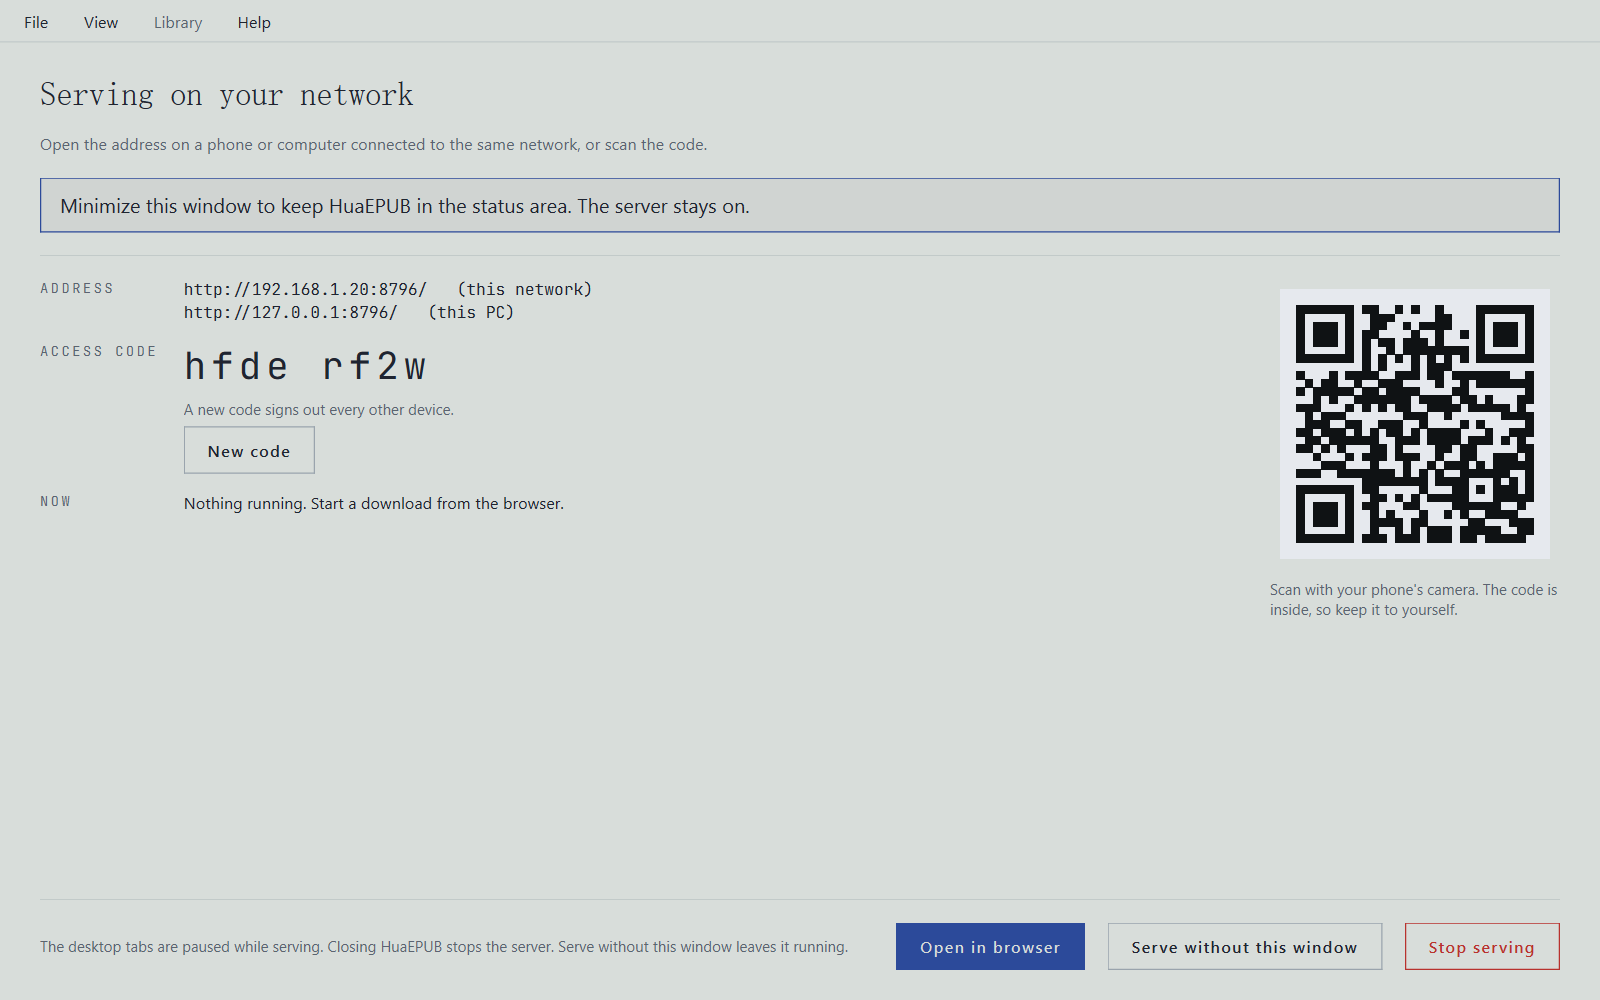
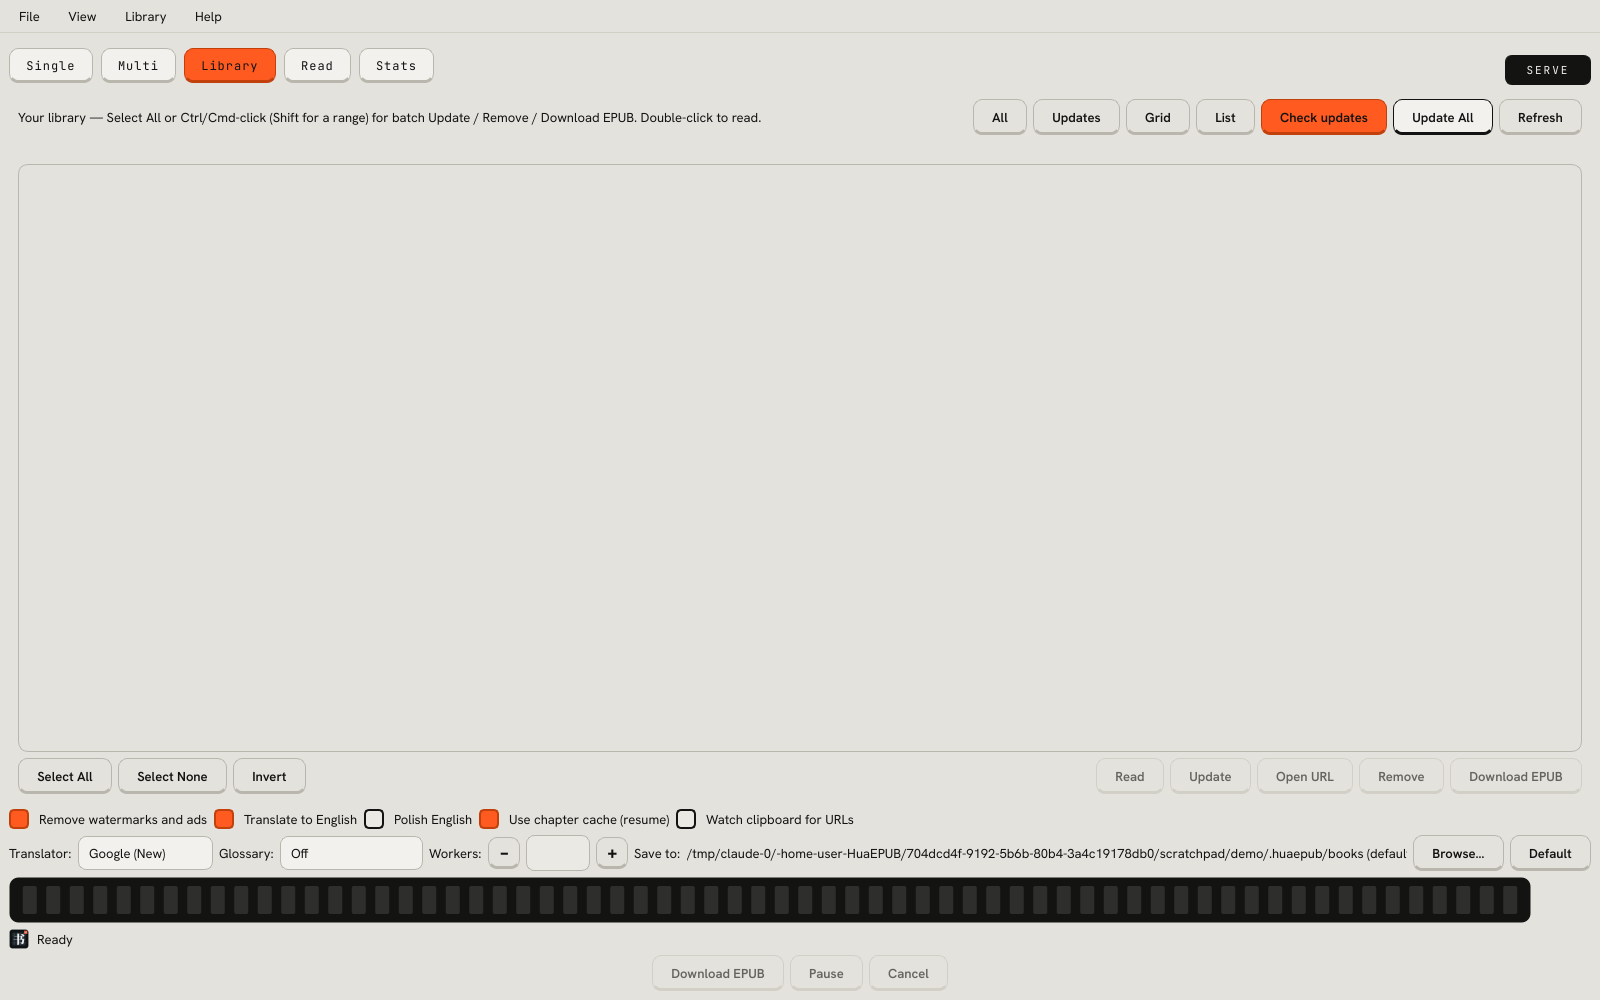
Release v3.2.0: a pocket-instrument look for the browser app and the desktop window.
Docs and screenshots follow the new look: README, user guide, server mode
and CLAUDE.md describe the two looks (Light, Dark; older saved looks map to
the nearest) and the new progress display, and all six README screenshots are
regenerated from the demo library, with a new one for the progress display.

Claude-Session: https://claude.ai/code/session_01PucUzqYpVmzRCj6nYXrTz7

diff --git a/gui/theme.py b/gui/theme.py
@@ -105,7 +105,7 @@ def system_is_dark() -> bool:
     app = QGuiApplication.instance()
     if app is None:
         return True
-    # Dark or Unknown: the app was dark before the Slips look
+    # Dark or Unknown: the app was dark before it had a light look
     return app.styleHints().colorScheme() != Qt.ColorScheme.Light
 
 

diff --git a/CLAUDE.md b/CLAUDE.md
@@ -297,13 +297,18 @@ this PC.
 - Window geometry is restored from settings. The Library grid/list uses extended selection (Select All
   / None / Invert, or Ctrl/Shift-click): **Update**, **Remove** and **Download EPUB** apply to the
   selection, while **Read**, **Open URL** and double-click use the current book.
-- `gui/theme.py` + `gui/style.qss` are the Slips look. `style.qss` is a `string.Template` (`${ground}`,
-  `${accent}`, …) rendered per palette; never hardcode colours in widgets (use object names such as
-  `mutedLabel` / `hintLabel` / `eyebrow`). Six palettes match `web/static/app.css` exactly (a test checks).
-  `ui_look`: `auto` (follows `styleHints().colorScheme()` live: dark is Catalogue at night, light is
-  Catalogue) | `dark` | `light` | `indigo` | `gold` | `cinnabar` | `mist` | `random` (opt-in only).
-  Hanken Grotesk and JetBrains Mono (OFL) are bundled in `gui/assets/fonts`; the CJK serif is not
-  bundled (system fallback). `gui/widgets/slips.py` (`SlipStrip`, `SealMark` 译) replaces the progress bar.
+- `gui/theme.py` + `gui/style.qss` are the pocket-instrument look (Teenage Engineering in spirit: warm grey
+  or near-black housing, one orange, mono labels, keys with a hard edge, an always-dark LCD).
+  `style.qss` is a `string.Template` (`${ground}`, `${accent}`, `${edge}`, `${lcd}`, …) rendered per
+  palette; never hardcode colours in widgets (use object names such as `mutedLabel` / `hintLabel` /
+  `eyebrow`). Buttons are keys: a thick `border-bottom` in the edge colour that `:pressed` trades for
+  padding. Two palettes, `dark` and `light`, match `web/static/app.css` exactly (a test checks ground,
+  ink, accent and flag). `ui_look`: `auto` (follows `styleHints().colorScheme()` live) | `light` |
+  `dark`; looks saved by older versions (`graphite`, `indigo`, `gold`, `cinnabar` to dark; `celadon`,
+  `mist` to light; `random` to auto) are mapped by `normalize_look`, so never reintroduce them.
+  Hanken Grotesk (400/500/600) and JetBrains Mono (OFL) are bundled in `gui/assets/fonts`; the CJK serif
+  is not bundled (system fallback). `gui/widgets/slips.py` (`SlipStrip`, `SealMark` 译) is the LCD
+  step-sequencer progress strip and the lit 译 key.
 - `gui/window/server_actions.py`: the **SERVE** chip (tab-bar corner) and File → Server mode…
   (`gui/server_dialog.py`). It refuses to start while a desktop job or a library check runs. While
   serving, the central `QStackedWidget` shows `gui/widgets/server_screen.py`; Server mode, the Library
@@ -358,10 +363,22 @@ Qt or `gui`.
 No build step; scripts load in order: app, single, multi, library, read, settings, storage, boot.
 Keep script-referenced IDs when editing `index.html`.
 
-- **Look:** the "card catalogue". The Library is the home page and each book is a catalogue card (a
-  call number from the source URL, one red rule under it, the title in Literata (Play Books' typeface),
-  details in Hanken Grotesk, a "+N new" stamp, and the reading position from `reading.json` as
-  `read_chapter`; no ruled lines). The detail dialog is the same card enlarged.
+- **Look:** the same pocket-instrument look as the desktop. Two themes (`dark`, `light`; `theme.js`
+  maps looks saved by older versions: indigo/gold/cinnabar to dark, mist to light, surprise to auto);
+  tokens `--ground --card --ink --muted --line --rule --mid --accent --accent-text --edge --flag --lcd`
+  (use `--accent-text`, not `--accent`, for orange *text*: it is darker on light). Type is Hanken Grotesk
+  with JetBrains Mono for small uppercase labels; no serif UI font (the CJK serif is only for Chinese
+  titles). Controls are keys (a hard shadow that flattens on `:active`), the nav is a numbered key row
+  (CSS counters), checkboxes are switches, and the header status (Disk, RAM, version, Look) is an LCD.
+  The Library is the home page and each book is a cartridge-style card (a short number from the source
+  URL, the title, the "+N new" orange label, and the reading position from `reading.json` as
+  `read_chapter`). The detail dialog is the same card enlarged.
+- **Progress display:** `#lcd` on the Add-a-book page is a dark panel with a phase LED, a counter, a
+  big percentage (`lcdFor` in `single.js` picks `data-mode`: `idle` / `busy` / `run` / `paused` /
+  `done` / `warn` / `error`), the sequencer row that `H.drawSlips` fills (`.slip.is-done` orange,
+  `.is-fetched` pale, `.is-cur` the blinking playhead, `.is-flag` a red dot) and the four stages as
+  indicator lights (`#steps`). The job dock on other pages is the same display in small. Blinking uses
+  `@keyframes lcd-blink`; the reduced-motion rule turns it off.
 - **Library page:** **Continue reading** (the book with the newest `read_at`), search over title /
   Chinese title / author / call number / URL, sort (Recent = the newer of `read_at` and `updated_at`,
   Title, Author, Most left to read, Longest) and a filter (All / Reading / Not started / New chapters).

diff --git a/README.md b/README.md
@@ -4,16 +4,19 @@ Download Chinese web novels, translate them to English, and read them as EPUBs: 
 from your phone through a built-in web app. Runs on **Windows, macOS and Linux**; prebuilt
 downloads are published for all three. (Formerly *Novel Downloader & Translator*.)
 
-![The library in a browser: each book is a catalogue card with its call number, reading position and a "+27 new" stamp](docs/screenshots/browser-library-light.png)
+![The library in a browser: each book is a card with its number, reading position and a "+27 new" label](docs/screenshots/browser-library-light.png)
 
 <table>
   <tr>
     <td width="50%"><img src="docs/screenshots/browser-detail-dark.png" alt="A book's card opened: facts, synopsis and chapter list"></td>
-    <td width="50%"><img src="docs/screenshots/desktop-serving-dark.png" alt="Server mode on the desktop: address, access code and QR code"></td>
+    <td width="50%"><img src="docs/screenshots/browser-progress-dark.png" alt="A translation in progress: the display with its phase light, percentage and step row"></td>
   </tr>
   <tr>
     <td><img src="docs/screenshots/desktop-library-light.png" alt="The desktop Library tab"></td>
-    <td align="center"><img src="docs/screenshots/phone-library-dark.png" width="45%" alt="The library on a phone"> <img src="docs/screenshots/phone-reader-light.png" width="45%" alt="Reading a chapter on a phone"></td>
+    <td><img src="docs/screenshots/desktop-serving-dark.png" alt="Server mode on the desktop: address, access code and QR code"></td>
+  </tr>
+  <tr>
+    <td colspan="2" align="center"><img src="docs/screenshots/phone-library-dark.png" width="30%" alt="The library on a phone"> <img src="docs/screenshots/phone-reader-light.png" width="30%" alt="Reading a chapter on a phone"></td>
   </tr>
 </table>
 

diff --git a/docs/server-mode.md b/docs/server-mode.md
@@ -27,9 +27,9 @@ port is taken it says so and opens the desktop app instead.
 
 ### Library
 
-The home page. Each book is a catalogue card: a call number from its source link, the English and
-Chinese titles, the author, the chapter count, the chapter you're on, and a red **+N new** stamp
-after **Check for updates**.
+The home page. Each book is a card like a cartridge: a short number from its source link, the English
+and Chinese titles, the author, the chapter count, the chapter you're on, and an orange **+N new**
+label after **Check for updates**.
 
 - **Continue reading** at the top reopens the book you read last, where you left off.
 - **Search** by title (English or Chinese), author or site; press **/** to jump to the box.
@@ -93,7 +93,11 @@ what's cached right now, not a lifetime total.
 Translate, clean, cache, translator, glossary, workers, Polish and the books folder, plus
 installing Polish, Offline NMT or an Ollama model (Ollama itself must already be installed).
 
-### Header
+### Header and look
+
+The five keys under the logo switch pages. The **Look** menu on the right of the header picks Auto
+(follow the device), Light or Dark; it is remembered per browser, so a phone and a PC can differ.
+
 
 Next to the version, the header shows how much **disk space** is left on the tightest disk the
 server writes to, and how much **memory** is available, so a Pi doesn't fill up unnoticed. It turns

diff --git a/docs/user-guide.md b/docs/user-guide.md
@@ -152,9 +152,9 @@ raises the cap, sets it to unlimited, or clears chapters, translations or everyt
 ## Menus and keys
 
 - **File**: Open books folder, Open data folder, Open log file, **Server mode…**, Exit.
-- **View → Look**: Auto follows your system (Catalogue at night when dark, Catalogue when light), or
-  pick Indigo & Jade, Ink & Gold, Cinnabar Night, Blue Mist or Surprise me. The browser app uses the
-  same palettes.
+- **View → Look**: Auto follows your system, or pick Light or Dark. The browser app has the same two
+  looks. (If an older version had you on Indigo & Jade, Ink & Gold or Cinnabar Night, you are on Dark
+  now; Blue Mist became Light.)
 - **Library**: Check for updates, Reset library…
 - **Help**: Check for updates, Auto-check updates on startup, How translation works…, Polish glossaries
   with Qwen…, **Cache…**, About.
